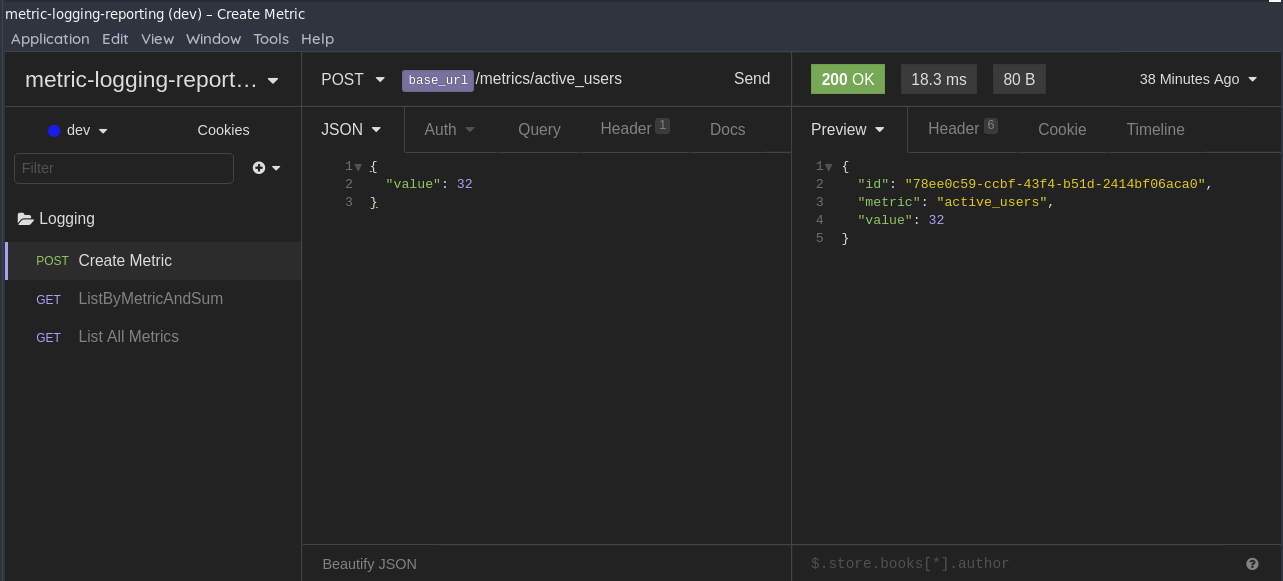
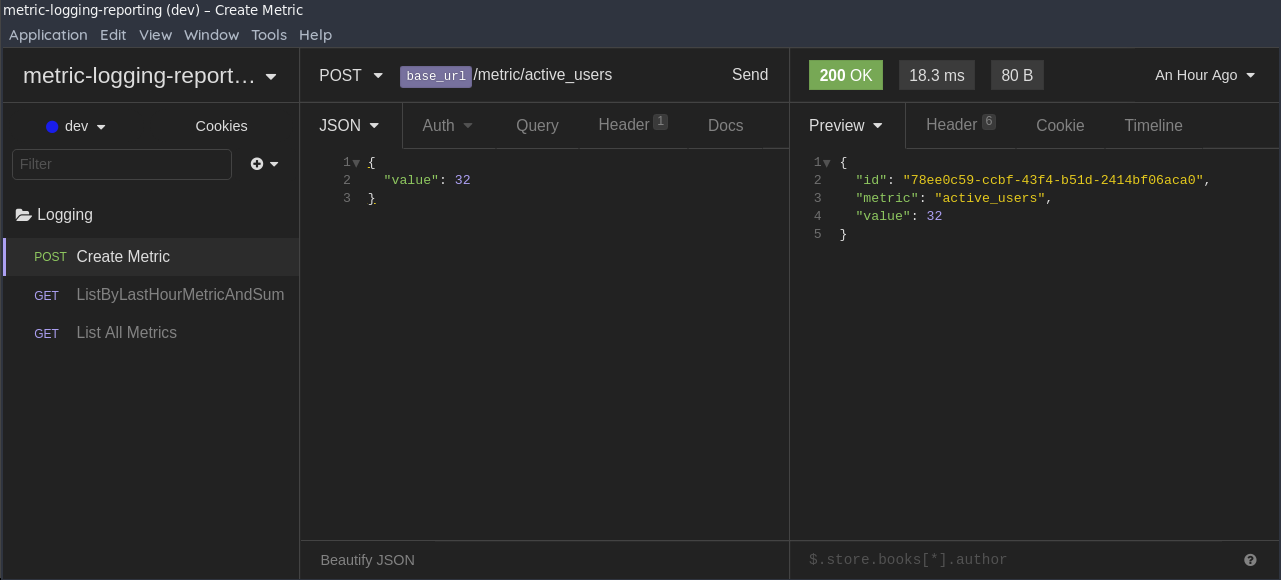
insomnia api

diff --git a/src/routes/index.ts b/src/routes/index.ts
@@ -3,6 +3,6 @@ import loggingRouter from './logging.routes';
 
 const routes = Router();
 
-routes.use('/metrics', loggingRouter);
+routes.use('/metric', loggingRouter);
 
 export default routes;
